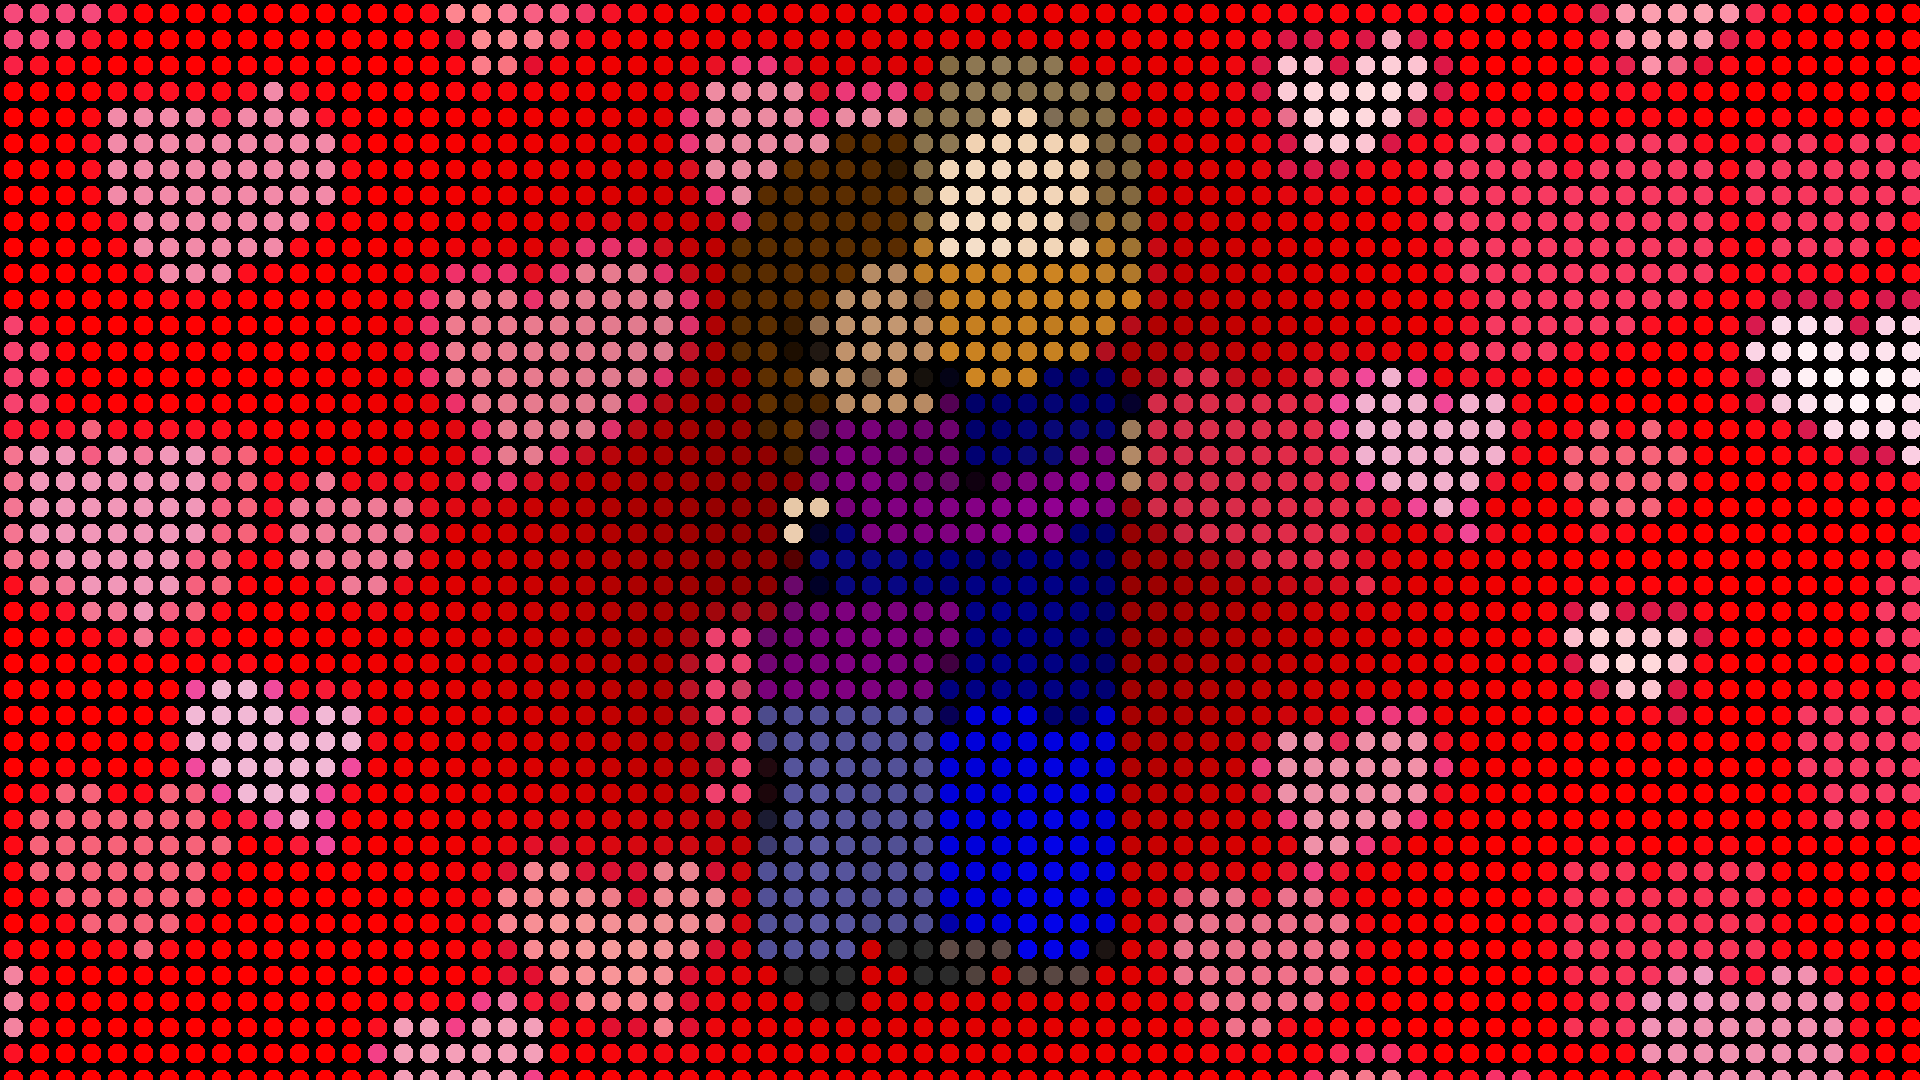
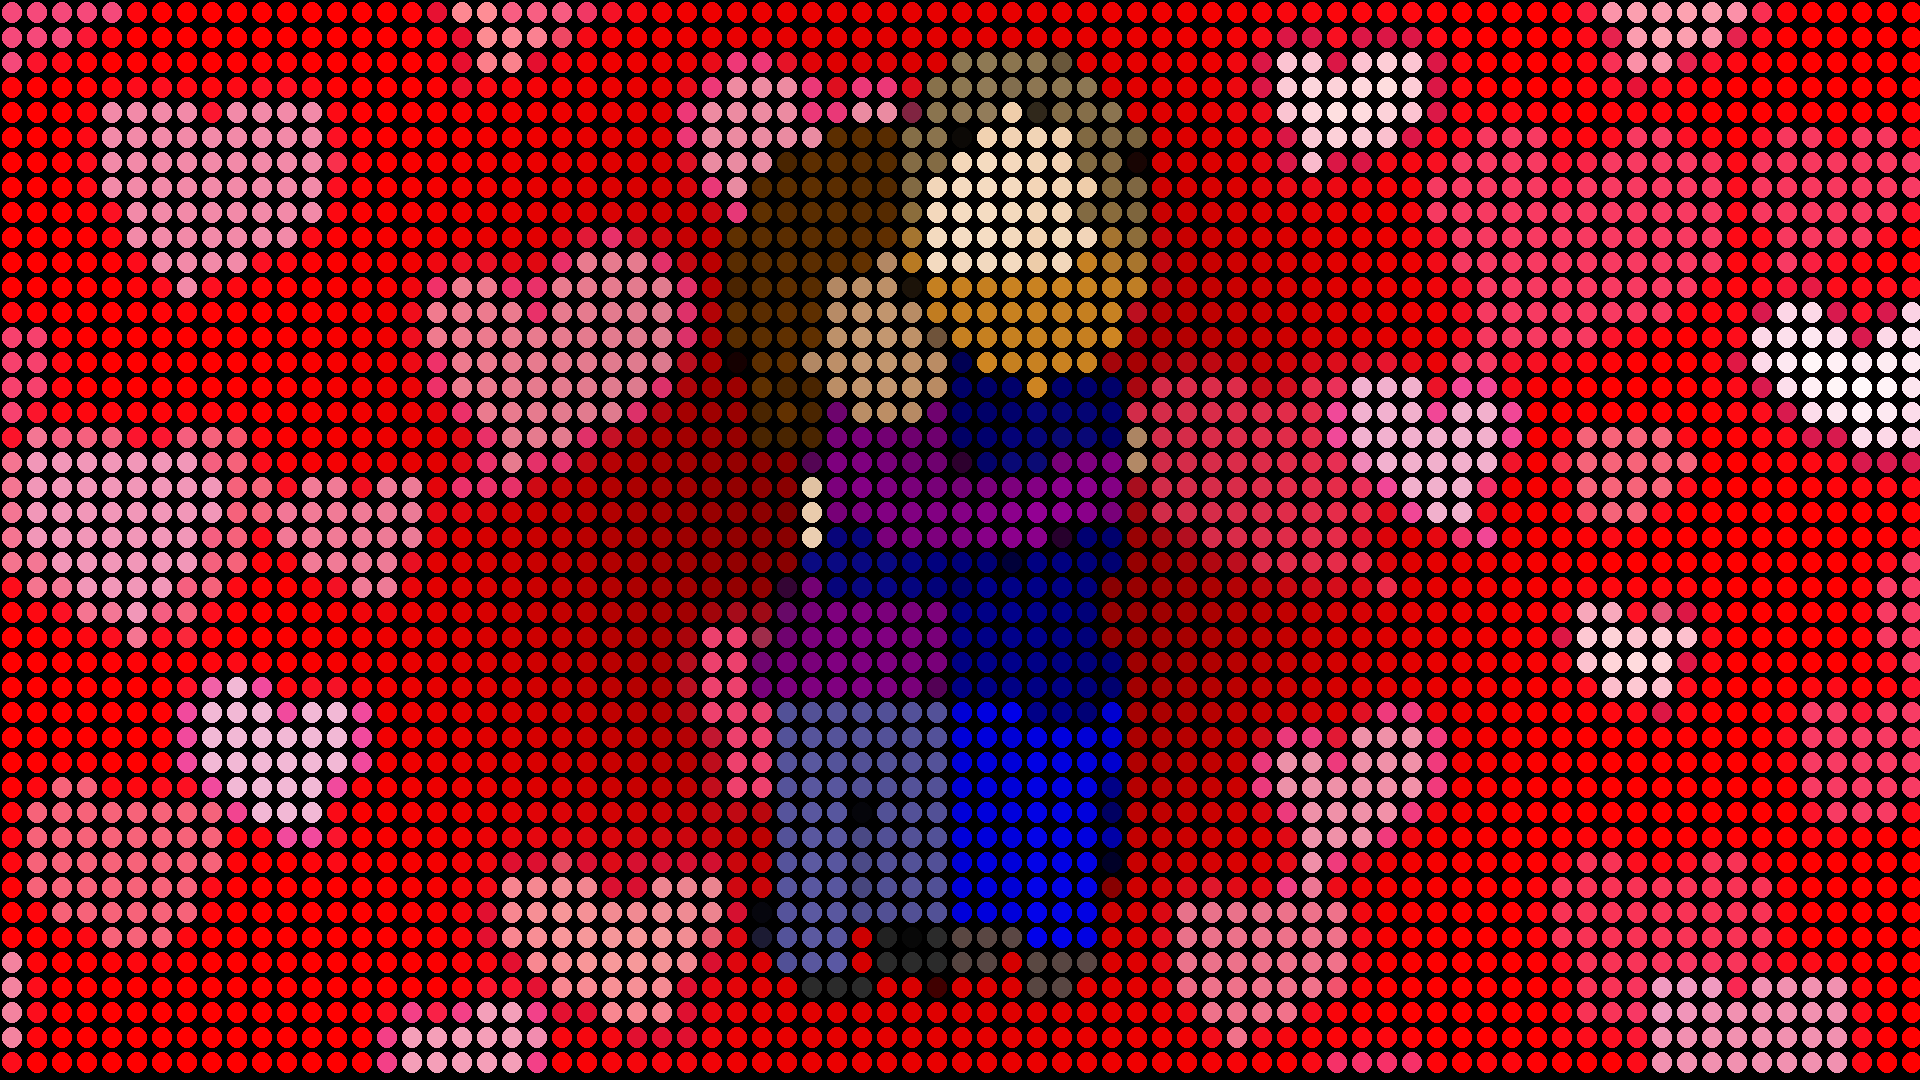
Changed how the Dot Effect works
Added a Circle class with a draw method that uses Bresenham's Midpoint
Circle Algorithm --
https://en.wikipedia.org/wiki/Midpoint_circle_algorithm
Made the dot effect use this instead of scanning through a square of
pixels.

diff --git a/Appropriation Art Exhibit/exhibit.py b/Appropriation Art Exhibit/exhibit.py
@@ -88,7 +88,7 @@ class Color(object):
         self.__blue = color_tuple[2]
         if len(color_tuple) == 4:
             self.__alpha = color_tuple[3]
-        self.__luminance = self.recalculate_luminance()
+        self.__luminance = self.calculate_luminance()
 
     @property
     def red(self):
@@ -98,6 +98,7 @@ class Color(object):
     @red.setter
     def red(self, value):
         self.__red = value
+        self.__luminance = self.calculate_luminance()
 
     @property
     def green(self):
@@ -107,6 +108,7 @@ class Color(object):
     @green.setter
     def green(self, value):
         self.__green = value
+        self.__luminance = self.calculate_luminance()
 
     @property
     def blue(self):
@@ -116,6 +118,7 @@ class Color(object):
     @blue.setter
     def blue(self, value):
         self.__blue = value
+        self.__luminance = self.calculate_luminance()
 
     @property
     def alpha(self):
@@ -129,7 +132,7 @@ class Color(object):
     def luminance(self):
         return self.__luminance
 
-    def recalculate_luminance(self):
+    def calculate_luminance(self):
         lum = (self.red + self.green + self.blue)/3
         return lum
 
@@ -167,12 +170,81 @@ class Color(object):
                 self.color = tuple(color)
             return self.color
 
+class Circle():
+    def __init__(self, centre_coordinates, radius, color):
+        self.__centre = centre_coordinates
+        self.__radius = radius
+        self.__color = color
+
+    @property
+    def x_centre(self):
+        return self.__centre[0]
+
+    @property
+    def y_centre(self):
+        return self.__centre[1]
+
+    @property
+    def radius(self):
+        return self.__radius
+
+    @property
+    def color(self):
+        return self.__color
+
+    def isInImage(self, canvas, x, y):
+        if 0 < x < canvas.width and 0 < y < canvas.height:
+            return True
+
+    def draw(self, canvas):
+        """Draw a circle on the canvas
+
+        Arguments:
+        canvas -- instance of Painting object
+        """
+        # Using Bresenham's midpoint circle algorithm -- https://en.wikipedia.org/wiki/Midpoint_circle_algorithm
+        # Adapted from the C example halfway down the page
+        # Then using the idea presented in the top answer at --
+        # http://stackoverflow.com/questions/1201200/fast-algorithm-for-drawing-filled-circles
+        x = self.radius
+        y = 0
+        decision_over_2 = 1 - x
+
+        while y <= x:
+            for x_coord in range(self.x_centre - y, self.x_centre + y):
+                y_coord = self.y_centre - x
+                if self.isInImage(canvas, x_coord, y_coord):
+                    canvas.set_pixel((x_coord, y_coord), self.color)
+
+            for x_coord in range(self.x_centre - x, self.x_centre + x):
+                y_coord = self.y_centre - y
+                if self.isInImage(canvas, x_coord, y_coord):
+                    canvas.set_pixel((x_coord, y_coord), self.color)
+
+            for x_coord in range(self.x_centre - x, self.x_centre + x):
+                y_coord = self.y_centre + y
+                if self.isInImage(canvas, x_coord, y_coord):
+                    canvas.set_pixel((x_coord, y_coord), self.color)
+
+            for x_coord in range(self.x_centre - y, self.x_centre + y):
+                y_coord = self.y_centre + x
+                if self.isInImage(canvas, x_coord, y_coord):
+                    canvas.set_pixel((x_coord, y_coord), self.color)
+
+            y += 1
+            if decision_over_2 <= 0:
+                decision_over_2 += 2 * y + 1
+            else:
+                x -= 1
+                decision_over_2 += 2 * (y - x) + 1
+
 class Painting(object):
     """Store image data so that variables for the data do not
     need to be defined/passed in/to every function that uses them.
     """
     def __init__(self, img):
-            self.img = img
+        """Can take arguments of type Painting, Image.Image or str"""
+        self.img = img
 
     @property
     def img(self):
@@ -209,7 +281,7 @@ class Painting(object):
 
     def copy(self):
         """Return a copy of the Painting instance"""
-        img_copy = self.__img.copy()
+        img_copy = self.img.copy()
         painting_copy = Painting(img_copy)
         return painting_copy
 
@@ -264,61 +336,74 @@ class Painting(object):
 
 
 class DotEffect():
+    """An effect that changes the image to be made out of circles."""
     def __init__(self, radius, gap, background):
-        self.radius = radius
-        self.diameter = self.radius * 2
-        self.gap = gap
-        self.background = background
-
-    def get_squaresize(self):
-        """Set the size of the square of pixels that
-        will be checked to an even number to account for
-        rounding errors and returns it as an int.
-        """
-        if (self.diameter + self.gap) % 2 != 0:
-            squaresize = self.diameter + self.gap + 1
-        else:
-            squaresize = self.diameter + self.gap
-        return squaresize
-
-    def draw_circle(self, canvas, pixels, centre, color):
-        """Draw a circle
+        """Initialises the properties.
 
         Arguments:
-        canvas -- Painting instance that the circles will be drawn on
-        pixels -- List of pixel coordinates that will be checked
-        centre -- Tuple containing coordinates of the centre of the circle
-        color -- Tuple containing color component values for color of circle
+        radius -- radius of the circle as an int
+        gap -- gap between the circles as an int
+        background -- background colour of the image as a tuple
         """
-        for pixel in pixels:
-            distance_from_centre = get_distance(pixel, centre)         # Because every point on the circumference of a
-            if distance_from_centre < self.radius:                     # circle is equal distance from the centre
-                canvas.set_pixel(pixel, color)
+        self.__radius = radius
+        self.__gap = gap
+        self.__background = background
+
+    @property
+    def radius(self):
+        return self.__radius
+
+    @property
+    def diameter(self):
+        return self.__radius * 2
+
+    @property
+    def gap(self):
+        return self.__gap
+
+    @property
+    def background(self):
+        return self.__background
 
     def convert_to_dots(self, painting):
         """Convert an image to be made up of circles of a
         given radius with the colour of the pixel at the
-        centre of the circle on a background colour
+        centre of the circle on a given background colour
         """
-        squaresize = self.get_squaresize()
-        first_centre = squaresize / 2                                  # So circles on top edge are fully visible
+        distance_between_centres = self.diameter + self.gap
+        # So that circles on top and left edges are fully visible
+        first_centre = distance_between_centres / 2
         canvas = painting.copy()
         canvas.clear_image(self.background)
 
-        for x in range(first_centre, painting.width, squaresize):
-            for y in range(first_centre, painting.height, squaresize):
+        for x in range(first_centre, painting.width, distance_between_centres):
+            for y in range(first_centre, painting.height, distance_between_centres):
                 centre = x, y
-                pixel_square = painting.get_square(centre, squaresize, squaresize)
                 centre_color = painting.get_pixel(centre)
-                self.draw_circle(canvas, pixel_square, centre, centre_color)
+                circle = Circle(centre, self.radius, centre_color)
+                circle.draw(canvas)
         painting.img = canvas
 
 
 class ShuffleEffect():
     """Class that sets up effect to shuffle pixels in an image"""
     def __init__(self, shuffle_step, randomness):
-        self.shuffle_step = shuffle_step
-        self.randomness = randomness
+        """Initialise the properties.
+
+        Arguments:
+        shuffle_step -- base amount that the pixels are allowed to move as an int
+        randomness -- amount that the shuffle_step is allowed to vary for each pixel
+        """
+        self.__shuffle_step = shuffle_step
+        self.__randomness = randomness
+
+    @property
+    def shuffle_step(self):
+        return self.__shuffle_step
+
+    @property
+    def randomness(self):
+        return self.__randomness
 
     def get_random_squaresize(self):
         """Return a random integer to be used for the
@@ -389,8 +474,7 @@ class ThreeColorEffect():
             for y in range(painting.height):
                 current_coordinate = x, y
                 current_pixel = painting.get_pixel(current_coordinate)
-                can_change = self.check_dominant_color(current_pixel,
-                                                    current_component_index)
+                can_change = self.check_dominant_color(current_pixel, current_component_index)
 
                 if can_change:
                     painting.set_pixel(current_coordinate, self.replacement_colors[current_component_index])
@@ -494,7 +578,8 @@ class TileEffect:
                 coordinates = x, y
                 canvas.paste(tile, coordinates)
                 index += 1
-                current_painting = paintings[index % len(paintings)]                # So that it doesn't matter if there are more tiles than colours
+                # So that it doesn't matter if there are more tiles than colours
+                current_painting = paintings[index % len(paintings)]
         return canvas
 
 show_gallery()
